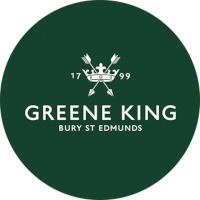
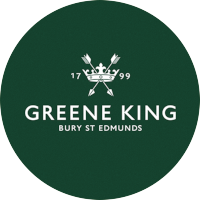
Added other brand images to replace the default marker circles.

diff --git a/app/src/main/java/com/bradleytenuta/stoutandabout/effects/PubPolygonsEffect.kt b/app/src/main/java/com/bradleytenuta/stoutandabout/effects/PubPolygonsEffect.kt
@@ -19,7 +19,6 @@ import com.bradleytenuta.stoutandabout.ui.theme.RubberHoseWhite
 import com.bradleytenuta.stoutandabout.util.toMapbox
 import com.bradleytenuta.stoutandabout.util.toJts
 import com.mapbox.geojson.Feature
-import com.mapbox.geojson.Geometry
 import com.mapbox.geojson.LineString
 import com.mapbox.geojson.MultiPolygon
 import com.mapbox.geojson.Point
@@ -35,7 +34,10 @@ import com.mapbox.maps.extension.compose.style.sources.GeoJSONData
 import com.mapbox.maps.extension.compose.style.sources.generated.rememberGeoJsonSourceState
 import com.mapbox.maps.plugin.annotation.generated.CircleAnnotationOptions
 import com.mapbox.maps.plugin.annotation.generated.PointAnnotationOptions
+import kotlinx.coroutines.Dispatchers
+import kotlinx.coroutines.withContext
 import org.locationtech.jts.geom.GeometryFactory
+import org.locationtech.jts.geom.Geometry as JtsGeometry
 
 @OptIn(MapboxExperimental::class, MapboxDelicateApi::class)
 @Composable
@@ -57,62 +59,78 @@ fun PubPolygonsEffect() {
     var iconMarkers by remember { mutableStateOf<List<PointAnnotationOptions>>(emptyList()) }
 
     LaunchedEffect(pubs, brandingIcons) {
-        val features = pubs.mapNotNull { pub ->
-            val geometry = pub.feature.geometry()
-            when (geometry) {
-                is Polygon, is MultiPolygon -> {
-                    processPolygon(geometry, pub.feature, geometryFactory)
+        withContext(Dispatchers.Default) {
+            val processedFeatures = mutableListOf<Feature>()
+            val tempCircleMarkers = mutableListOf<CircleAnnotationOptions>()
+            val tempIconMarkers = mutableListOf<PointAnnotationOptions>()
+
+            pubs.forEach { pub ->
+                val geometry = pub.feature.geometry() ?: return@forEach
+                
+                // 1. Convert to JTS once
+                val jtsGeom: JtsGeometry? = when (geometry) {
+                    is Point -> geometry.toJts(geometryFactory)
+                    is LineString -> geometry.toJts(geometryFactory)
+                    is Polygon -> geometry.toJts(geometryFactory)
+                    is MultiPolygon -> geometry.toJts(geometryFactory)
+                    else -> null
                 }
-                is Point -> {
-                    processPoint(geometry, pub.feature, geometryFactory)
+
+                if (jtsGeom == null) {
+                    processedFeatures.add(pub.feature)
+                    return@forEach
                 }
-                is LineString -> {
-                    val firstCoord = geometry.coordinates().firstOrNull()
-                    if (firstCoord != null) {
-                        processPoint(firstCoord, pub.feature, geometryFactory)
-                    } else {
-                        pub.feature
+
+                // 2. Process for Extrusion Feature
+                try {
+                    val bufferedJts = when (geometry) {
+                        is Polygon, is MultiPolygon -> jtsGeom.buffer(0.00001)
+                        is Point -> jtsGeom.buffer(0.00010)
+                        is LineString -> {
+                            // Replicate previous logic: use first coordinate as a point
+                            geometry.coordinates().firstOrNull()?.toJts(geometryFactory)?.buffer(0.00010)
+                        }
+                        else -> null
                     }
+                    val bufferedMapbox = bufferedJts?.toMapbox()
+                    if (bufferedMapbox != null) {
+                        processedFeatures.add(Feature.fromGeometry(bufferedMapbox, pub.feature.properties(), pub.feature.id()))
+                    } else {
+                        processedFeatures.add(pub.feature)
+                    }
+                } catch (_: Exception) {
+                    processedFeatures.add(pub.feature)
                 }
-                else -> {
-                    pub.feature
+
+                // 3. Process for Markers
+                try {
+                    val centroid = jtsGeom.centroid
+                    val markerPoint = Point.fromLngLat(centroid.x, centroid.y)
+
+                    val brandEnum = Branding.entries.find { it.brandName == pub.brand } ?: Branding.DEFAULT
+                    val iconBitmap = brandingIcons[brandEnum]
+
+                    if (iconBitmap != null) {
+                        tempIconMarkers.add(
+                            PointAnnotationOptions()
+                                .withPoint(markerPoint)
+                                .withIconImage(iconBitmap)
+                                .withIconSize(0.5)
+                        )
+                    }
+                } catch (_: Exception) {
+                    // Ignore marker if centroid fails
                 }
             }
-        }
-        sourceState.data = GeoJSONData(features)
 
-        // Calculate markers (centroids)
-        val tempCircleMarkers = mutableListOf<CircleAnnotationOptions>()
-        val tempIconMarkers = mutableListOf<PointAnnotationOptions>()
-
-        pubs.forEach { pub ->
-            val geometry = pub.feature.geometry() ?: return@forEach
-            val centroid = calculateCentroid(geometry, geometryFactory) ?: return@forEach
-            
-            val brandEnum = Branding.entries.find { it.brandName == pub.brand }
-            val iconBitmap = brandEnum?.let { brandingIcons[it] }
-
-            if (iconBitmap != null) {
-                tempIconMarkers.add(
-                    PointAnnotationOptions()
-                        .withPoint(centroid)
-                        .withIconImage(iconBitmap)
-                        .withIconSize(0.5)
-                )
-            } else {
-                tempCircleMarkers.add(
-                    CircleAnnotationOptions()
-                        .withPoint(centroid)
-                        .withCircleColor(RubberHoseBlack.toArgb())
-                        .withCircleRadius(6.0)
-                        .withCircleStrokeColor(RubberHoseWhite.toArgb())
-                        .withCircleStrokeWidth(2.0)
-                )
+            // 4. Update states on main thread
+            withContext(Dispatchers.Main) {
+                sourceState.data = GeoJSONData(processedFeatures)
+                circleMarkers = tempCircleMarkers
+                iconMarkers = tempIconMarkers
+                Log.d("PubPolygonsEffect", "Processed ${pubs.size} pubs: ${circleMarkers.size} circles, ${iconMarkers.size} icons")
             }
         }
-        circleMarkers = tempCircleMarkers
-        iconMarkers = tempIconMarkers
-        Log.d("PubPolygonsEffect", "Created ${circleMarkers.size} circle markers and ${iconMarkers.size} icon markers for ${pubs.size} pubs")
     }
 
     FillExtrusionLayer(
@@ -137,61 +155,5 @@ fun PubPolygonsEffect() {
         annotationConfig = null
     ) {
         maxZoom = 20.0
-    }
-}
-
-private fun calculateCentroid(geometry: Geometry, factory: GeometryFactory): Point? {
-    return try {
-        val jtsGeom = when (geometry) {
-            is Point -> geometry.toJts(factory)
-            is LineString -> geometry.toJts(factory)
-            is Polygon -> geometry.toJts(factory)
-            is MultiPolygon -> geometry.toJts(factory)
-            else -> null
-        }
-        val centroid = jtsGeom?.centroid
-        centroid?.let { Point.fromLngLat(it.x, it.y) }
-    } catch (_: Exception) {
-        null
-    }
-}
-
-private fun processPolygon(geometry: Geometry, feature: Feature, factory: GeometryFactory): Feature {
-    return try {
-        val jtsGeom = when (geometry) {
-            is Polygon -> geometry.toJts(factory)
-            is MultiPolygon -> geometry.toJts(factory)
-            else -> null
-        }
-
-        // Buffer by ~1 meter in degrees (approx 0.00001)
-        val bufferedJts = jtsGeom?.buffer(0.00001)
-        val bufferedMapbox = bufferedJts?.toMapbox()
-
-        if (bufferedMapbox != null) {
-            Feature.fromGeometry(bufferedMapbox, feature.properties(), feature.id())
-        } else {
-            feature
-        }
-    } catch (_: Exception) {
-        feature
-    }
-}
-
-private fun processPoint(geometry: Point, feature: Feature, factory: GeometryFactory): Feature {
-    return try {
-        val jtsPoint = geometry.toJts(factory)
-
-        // 10m buffer in degrees.
-        val bufferedJts = jtsPoint.buffer(0.00010)
-        val bufferedMapbox = bufferedJts?.toMapbox()
-
-        if (bufferedMapbox != null) {
-            Feature.fromGeometry(bufferedMapbox, feature.properties(), feature.id())
-        } else {
-            feature
-        }
-    } catch (_: Exception) {
-        feature
     }
 }

diff --git a/app/src/main/java/com/bradleytenuta/stoutandabout/domain/Branding.kt b/app/src/main/java/com/bradleytenuta/stoutandabout/domain/Branding.kt
@@ -10,5 +10,13 @@ enum class Branding(
     GREENE_KING(
         brandName = "Greene King",
         iconPath = "branding/greene-king.png"
+    ),
+    WETHERSPOON(
+        brandName = "Wetherspoon",
+        iconPath = "branding/wetherspoon.png"
+    ),
+    DEFAULT(
+        brandName = "",
+        iconPath = "branding/default.png"
     )
 }
